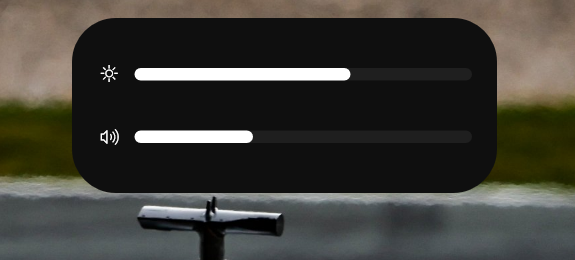
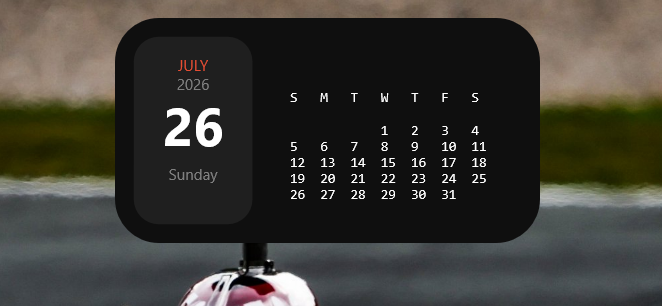
Fix screenshot mapping and add idle condition screenshot

diff --git a/README.md b/README.md
@@ -4,6 +4,10 @@ A sleek, modern, and highly interactive Dynamic Island overlay for Windows. Buil
 
 ## ✨ Features
 
+### 💤 Idle Condition
+When not interacted with, the Dynamic Island elegantly shrinks into a sleek pill shape. It remains entirely click-through, ensuring it never interrupts your workflow.
+![Idle Condition](assets/idle.png)
+
 The Dynamic Island features 5 powerful interactive views that you can scroll through using your mouse wheel while hovering over it:
 
 ### 🎵 Media Player
